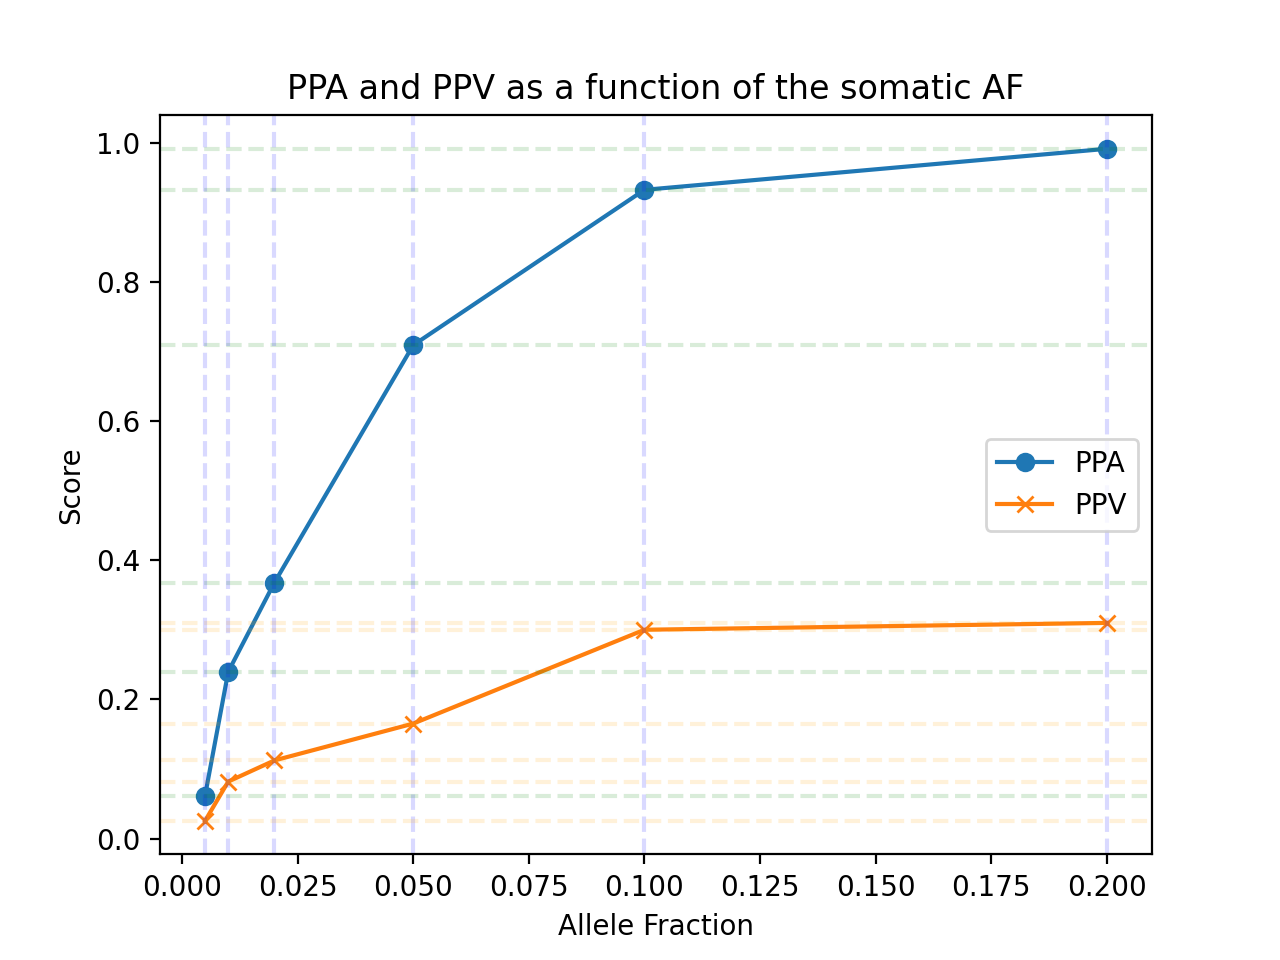
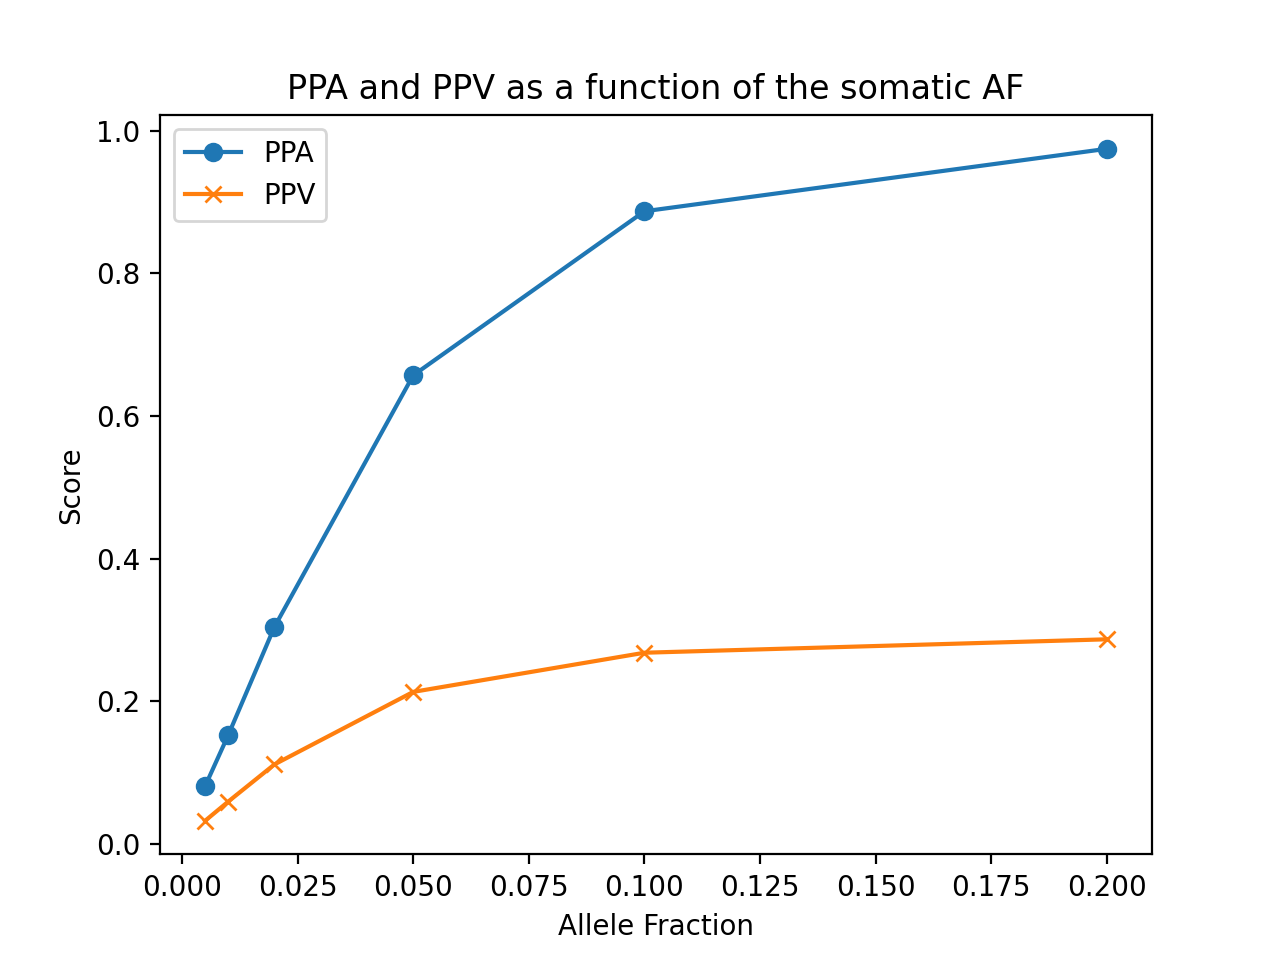
Code cleanup and adding time information in run_simulation.py

diff --git a/run_simulation.py b/run_simulation.py
@@ -58,6 +58,7 @@ Author:
 import argparse
 import numpy as np
 import psutil
+import timeit
 
 def get_available_memory() -> int:
     """
@@ -256,6 +257,7 @@ def main():
         reproducible.
 
     """
+    start_time = timeit.default_timer()
     parser = argparse.ArgumentParser("Monte-Carlo simulation of somatic \
                                      mutations in NGS data.")
     parser.add_argument('-k','--num_pileups',          type=int, required=True,
@@ -310,6 +312,9 @@ def main():
     print(f"PPA: {round(ppa*100, 2)}%, \t PPV: {round(ppv*100, 2)}%, \t \
         Specificity: {round(specificity*100, 2)}%")
     print("="*80)
+    end_time = timeit.default_timer() - start_time
+    print(f"Finished simulating {args.num_pileups} pileups in {end_time} seconds")
+
 
 if __name__ == '__main__':
     main()

diff --git a/create_af_plots_for_simulation.py b/create_af_plots_for_simulation.py
@@ -58,10 +58,6 @@ def plot_metrics(allele_fractions: np.ndarray,
     """
     plt.plot(allele_fractions, ppas, label='PPA', marker='o')
     plt.plot(allele_fractions, ppvs, label='PPV', marker='x')
-    for x, y, z in zip(allele_fractions, ppas, ppvs):
-        plt.axvline(x=x, color='b', linestyle='--', alpha=0.15)
-        plt.axhline(y=y, color='g', linestyle='--', alpha=0.15)
-        plt.axhline(y=z, color='#FFA500', linestyle='--', alpha=0.15)
     plt.xlabel('Allele Fraction')
     plt.ylabel('Score')
     plt.title('PPA and PPV as a function of the somatic AF')
